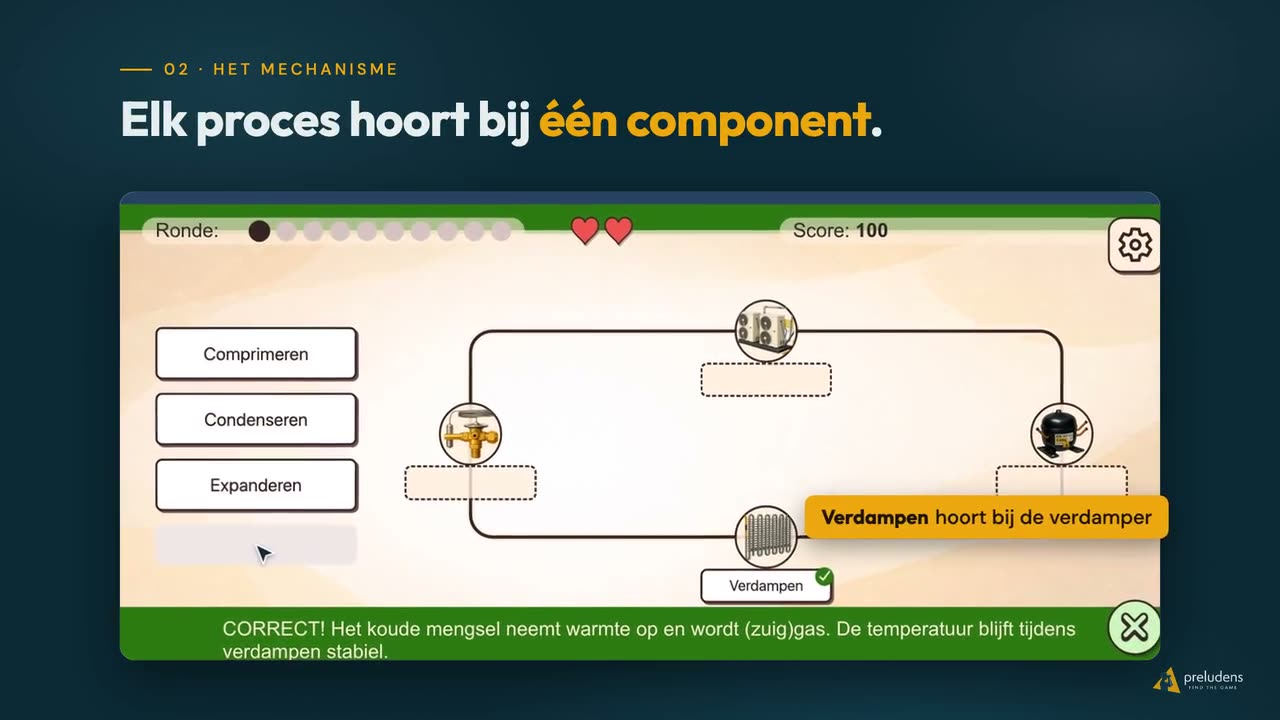
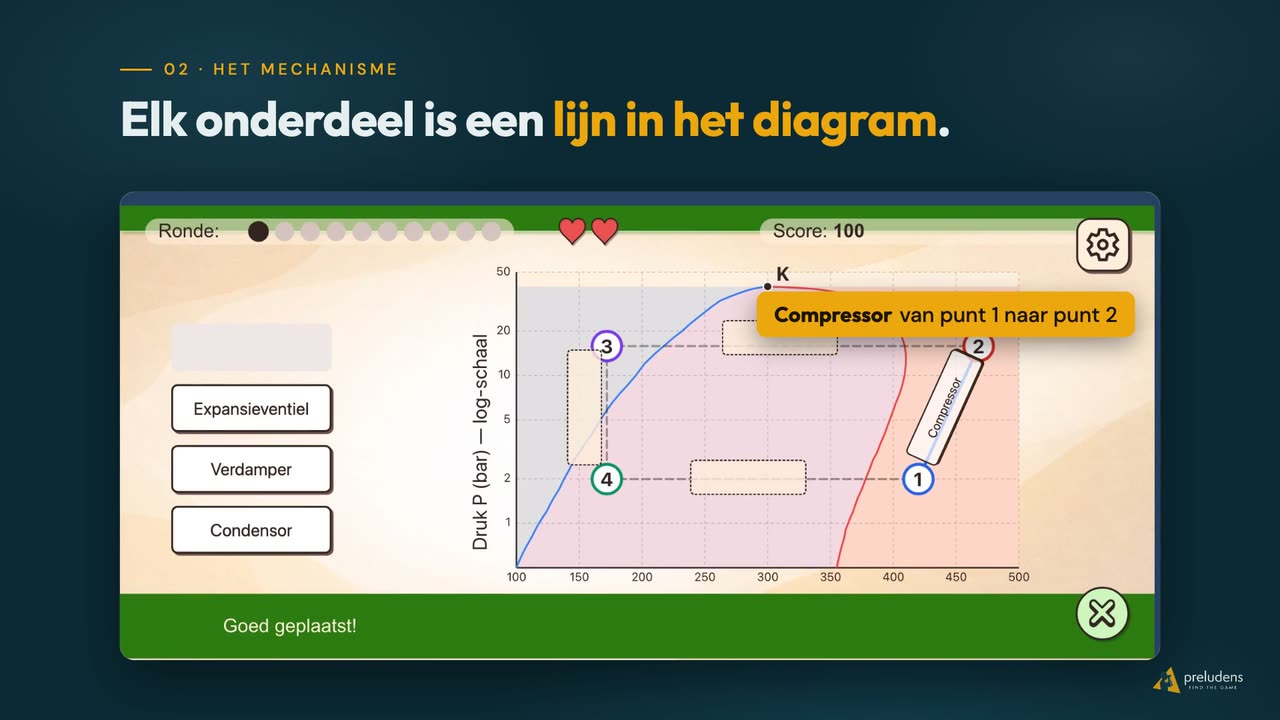
Geef de verhaalpagina's de nieuwe films en één verteller.
Basis Koeltechniek is opnieuw gemonteerd: elke scène een andere MicroGame en
een slotmontage waarin alle negen voorbijkomen, zonder vertraagde beelden.
CO Wijzer kreeg de film van de game zelf; de vorige film gaat over het
vervolgtraject en blijft in de bucket staan tot dat een eigen pagina heeft.

Alle Nederlandse explainers spreken nu met dezelfde stem, op eleven_v4.
Bijschriften, posters en bestandsgroottes zijn daarop bijgewerkt.

diff --git a/_verhalen/studium-co-wijzer.en.md b/_verhalen/studium-co-wijzer.en.md
@@ -30,17 +30,18 @@ figures:
   - file: co-wijzer-clv-start.jpg
     caption: Start of the MicroGame about CLV systems
 video:
-  file: cowijzer-explainer.mp4
-  poster: /assets/images/verhalen/studium-co-wijzer-video-poster.jpg
+  file: cowijzer-melder-explainer.mp4
+  poster: /assets/images/verhalen/co-wijzer-melder-video-poster.jpg
   label: >-
-    Explainer for CO Wijzer: a cross-section of a shared flue, a CO meter climbing, and
-    caps being fitted to the open connection sockets
+    Explainer for CO Wijzer: a cross-section of a house in which a CO alarm is placed room
+    by room, with the distance to the source and to the ceiling updating as it is dragged
   caption: >-
-    A minute from the game. You are the engineer in a block of flats where several homes
-    share one flue. Remove an old appliance while the connection sockets stay open, and
-    the CO meter in the home starts to climb. The game then explains the rule behind it.
-    The voice-over is Dutch.
-  download_label: Download the video (mp4, 3.3 MB)
+    A minute from the game. You are the engineer who has just checked a boiler and notices
+    there are no CO alarms anywhere. For each level of protection you pick the rooms and
+    mount the alarm; the distance to the source and to the ceiling updates as you drag. In
+    the bedroom it goes wrong first, and then it ends up at sleeping height. The voice-over
+    is Dutch.
+  download_label: Download the video (mp4, 2.5 MB)
 summary: >-
   Carbon monoxide cannot be seen, smelled or tasted. CO Wijzer lets professionals practise
   recognising risks and making the right safety choice.

diff --git a/_verhalen/studium-co-wijzer.md b/_verhalen/studium-co-wijzer.md
@@ -30,17 +30,18 @@ figures:
   - file: co-wijzer-clv-start.jpg
     caption: Start van de MicroGame over CLV-systemen
 video:
-  file: cowijzer-explainer.mp4
-  poster: /assets/images/verhalen/studium-co-wijzer-video-poster.jpg
+  file: cowijzer-melder-explainer.mp4
+  poster: /assets/images/verhalen/co-wijzer-melder-video-poster.jpg
   label: >-
-    Explainer van CO Wijzer: een rookgaskanaal in doorsnede, een CO-meter die oploopt,
-    en afsluitkappen die op de open aansluitstompen worden gezet
+    Explainer van CO Wijzer: een huis in doorsnede waarin per ruimte een CO-melder wordt
+    geplaatst, met de afstand tot de bron en tot het plafond die meelopen tijdens het
+    slepen
   caption: >-
-    Een minuut uit het spel. Je bent de monteur in een flat waar meerdere woningen een
-    rookgaskanaal delen. Haal je een oud toestel weg en blijven de aansluitstompen open,
-    dan loopt de CO-meter in de woning op. Het spel legt daarna uit welke regel erachter
-    zit.
-  download_label: Download de video (mp4, 3,3 MB)
+    Een minuut uit het spel. Je bent de monteur die net een ketel heeft gecontroleerd en
+    ziet dat er nergens CO-melders hangen. Per beschermingsniveau kies je de ruimtes en
+    hang je de melder op; de afstand tot de bron en tot het plafond loopt mee terwijl je
+    sleept. In de slaapkamer gaat het eerst mis, en daarna hangt hij op slaaphoogte.
+  download_label: Download de video (mp4, 2,5 MB)
 summary: >-
   Koolmonoxide kun je niet zien, ruiken of proeven. CO Wijzer laat professionals oefenen
   met het herkennen van risico's en het maken van de juiste veiligheidskeuze.

diff --git a/_verhalen/basis-koeltechniek.en.md b/_verhalen/basis-koeltechniek.en.md
@@ -33,15 +33,15 @@ video:
   file: koeltechniek-explainer.mp4
   poster: /assets/images/verhalen/basis-koeltechniek-video-poster.jpg
   label: >-
-    Explainer for Basis Koeltechniek: the refrigeration circuit with evaporator,
-    condenser, compressor and expansion valve, where processes are dragged onto
-    their component
+    Explainer for Basis Koeltechniek: marking measuring points on a running system,
+    placing components on their line in the h-log-P diagram, and short clips from all
+    nine MicroGames
   caption: >-
-    A minute from the game. You drag evaporating, condensing, compressing and expanding
-    onto the component where each happens, and each move comes back with the explanation.
-    The video gets one wrong on purpose, so you see the correction too. The voice-over
-    is Dutch.
-  download_label: Download the video (mp4, 3.5 MB)
+    A minute from the game, drawn from four different MicroGames. You mark measuring points
+    on a running system, place components on their line in the h-log-P diagram, pick which
+    segment is the superheat, and adjust an expansion valve. At the end all nine MicroGames
+    flash past. The voice-over is Dutch.
+  download_label: Download the video (mp4, 3.7 MB)
 summary: >-
   For Basic Refrigeration we developed, together with Climatools BV, 21CC Learning and Studium,
   a digital learning experience in which installation technicians actively work with

diff --git a/_verhalen/basis-koeltechniek.md b/_verhalen/basis-koeltechniek.md
@@ -33,13 +33,15 @@ video:
   file: koeltechniek-explainer.mp4
   poster: /assets/images/verhalen/basis-koeltechniek-video-poster.jpg
   label: >-
-    Explainer van Basis Koeltechniek: het koelcircuit met verdamper, condensor,
-    compressor en expansieventiel, waarin processen naar hun component worden gesleept
+    Explainer van Basis Koeltechniek: meetpunten aanwijzen in een draaiende installatie,
+    componenten op hun lijn in het h-log-P-diagram, en korte fragmenten uit alle negen
+    MicroGames
   caption: >-
-    Een minuut uit het spel. Je sleept verdampen, condenseren, comprimeren en expanderen
-    naar de component waar ze gebeuren, en bij elke zet komt de uitleg meteen terug. In
-    de video wordt bewust een keer misgegokt, zodat je ook de correctie ziet.
-  download_label: Download de video (mp4, 3,5 MB)
+    Een minuut uit het spel, uit vier verschillende MicroGames. Je wijst meetpunten aan in
+    een draaiende installatie, legt componenten op hun lijn in het h-log-P-diagram, kiest
+    welk lijnstuk de oververhitting is en regelt een expansieventiel bij. Aan het eind
+    flitsen alle negen MicroGames kort voorbij.
+  download_label: Download de video (mp4, 3,7 MB)
 summary: >-
   Voor Basis Koeltechniek ontwikkelden we samen met Climatools BV, 21CC Learning en Studium
   een digitale leerervaring waarin installatiemonteurs actief met koeltechnische theorie

diff --git a/_verhalen/nnvo-wet-en-regelgeving.md b/_verhalen/nnvo-wet-en-regelgeving.md
@@ -21,7 +21,7 @@ video:
     Een minuut uit de training. Op een stuk water gelden tegelijk regels van het Rijk,
     de provincie, de gemeente en het waterschap. Je legt de Binnenvaartwet, het besluit
     en de regeling in de juiste rangorde, en ziet meteen of het klopt.
-  download_label: Download de video (mp4, 3,7 MB)
+  download_label: Download de video (mp4, 3,5 MB)
 summary: >-
   Hoe houd je ervaren brug- en sluisoperators scherp in een vakgebied waar regels voortdurend in
   beweging zijn? Voor NNVO ontwikkelde Preludens een herscholing die ervaring uitdaagt in plaats

diff --git a/_verhalen/nnvo-wet-en-regelgeving.en.md b/_verhalen/nnvo-wet-en-regelgeving.en.md
@@ -22,7 +22,7 @@ video:
     government, the province, the municipality and the water authority all apply at
     once. You place the act, the decree and the regulation in the right order, and see
     straight away whether it fits. The voice-over is Dutch.
-  download_label: Download the video (mp4, 3.7 MB)
+  download_label: Download the video (mp4, 3.5 MB)
 summary: >-
   How do you keep experienced bridge and lock operators sharp in a field where the rules are
   constantly evolving? For NNVO, Preludens developed a refresher that challenges experience rather
